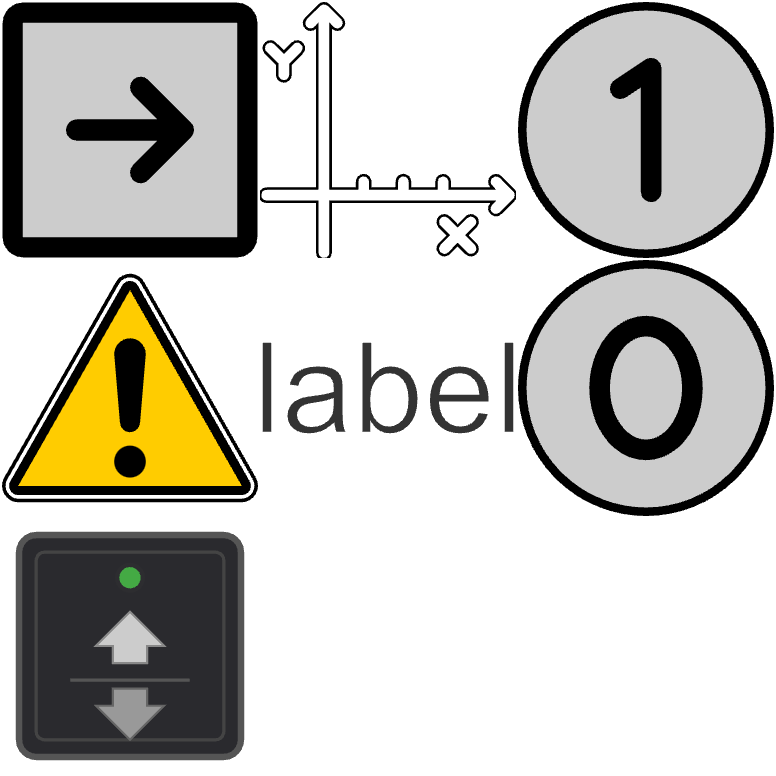
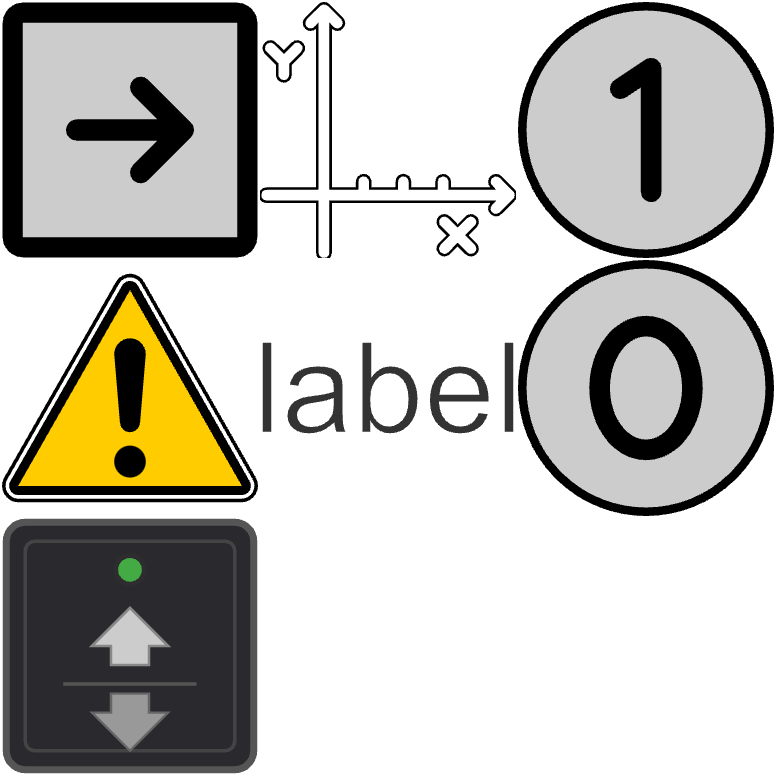
feat: live update decor via vite plugin

Changed region(s): [[0.0, 0.6495, 0.3402, 1.0]]

diff --git a/packages/ui/world/src/components/Decor.tsx b/packages/ui/world/src/components/Decor.tsx
@@ -8,6 +8,7 @@ import React, { useMemo } from "react";
 import { texture } from "three/src/nodes/accessors/TextureNode.js";
 import { uv } from "three/src/nodes/accessors/UV.js";
 import { attribute } from "three/src/nodes/core/AttributeNode.js";
+import { vec2 } from "three/tsl";
 import * as THREE from "three/webgpu";
 import type { DecorSheetEntry } from "../assets.schema";
 import { MAX_DECOR_QUAD_INSTANCES, sguToWorldScale } from "../const";
@@ -180,13 +181,15 @@ export default function Decor(_props: Props) {
       await updateDecor();
       w.setNextPending({ decor: false });
     })();
-  }, [w.mapKey, w.hash, state.images.length, w.pending.nav]);
+  }, [w.mapKey, w.hash, state.images, w.pending.nav]);
 
   const materials = useMemo(() => {
     const uvDims = attribute("uvDimensions", "vec2");
     const uvOffs = attribute("uvOffsets", "vec2");
     const uvTexIds = attribute("uvTextureIds", "float");
-    const transformedUv = uv().mul(uvDims).add(uvOffs);
+    // why do we need to flip here?
+    const flippedUv = vec2(uv().x, uv().y.oneMinus());
+    const transformedUv = flippedUv.mul(uvDims).add(uvOffs);
     const texNode = texture(w.texDecor.tex, transformedUv);
     texNode.depthNode = uvTexIds;
 

diff --git a/packages/ui/world/src/components/World.tsx b/packages/ui/world/src/components/World.tsx
@@ -1,4 +1,5 @@
 import type { StarShipGeomorphKey } from "@npc-cli/media/starship-symbol";
+import { devMessageFromServer } from "@npc-cli/ui__map-edit/map-node-api";
 import { UiContext } from "@npc-cli/ui-sdk/UiContext";
 import { Broadcaster, cn, type UseStateRef, useStateRef } from "@npc-cli/util";
 import { fetchParsed, getDevCacheBustQueryParam } from "@npc-cli/util/fetch-parsed";
@@ -152,6 +153,10 @@ export default function World({ meta }: { meta: WorldUiMeta }) {
           ["hot", assetsJsonChangedEvent, () => {
             debug("[World] assets.json changed: refetching");
             queryClientApi.queryClient.invalidateQueries({ exact: false, queryKey: state.worldQueryPrefix });
+          }],
+          ["hot", devMessageFromServer.decorSheetsRebuilt, () => {
+            debug("[World] decor sheets rebuilt: refetching");
+            queryClientApi.queryClient.invalidateQueries({  queryKey: [...state.worldQueryPrefix, "decor-sheet-images"] });
           }],
           ["window", "hmr:DerivedGmsData", (e: Event) => {
             debug("[World] HMR: DerivedGmsData updated: recomputing");

diff --git a/scripts/src/service/watch-decor-svgs.ts b/scripts/src/service/watch-decor-svgs.ts
@@ -1,6 +1,8 @@
+import { execSync } from "node:child_process";
 import fs from "node:fs";
 import path from "node:path";
 import { type DecorManifest, DecorManifestEntrySchema, DecorManifestSchema } from "@npc-cli/ui__map-edit/editor.schema";
+import { devMessageFromServer } from "@npc-cli/ui__map-edit/map-node-api";
 import { info, safeJsonCompact, warn } from "@npc-cli/util/legacy/generic";
 import { Parser } from "htmlparser2";
 import { Canvas, loadImage } from "skia-canvas";
@@ -23,7 +25,12 @@ export function watchDecorSvgs(server: ViteDevServer) {
   const rebuild = () => {
     if (debounceTimer) clearTimeout(debounceTimer);
     debounceTimer = setTimeout(() => {
-      rebuildDecor();
+      try {
+        execSync("pnpm exec gen-decor-sheets", { cwd: PROJECT_ROOT, stdio: "inherit" });
+        server.hot.send({ type: "custom", event: devMessageFromServer.decorSheetsRebuilt });
+      } catch (e) {
+        warn("[watch-decor] gen-decor-sheets failed:", e);
+      }
     }, 200);
   };
 

diff --git a/packages/ui/map-edit/src/map-node-api.ts b/packages/ui/map-edit/src/map-node-api.ts
@@ -103,6 +103,7 @@ export const defaultSymbolKey: StarshipSymbolImageKey = "stateroom--012--2x2";
 
 export const devMessageFromServer = {
   recomputedPathManifest: "map-edit:recompute-path-manifest",
+  decorSheetsRebuilt: "decor-sheets-rebuilt",
 } as const;
 
 //#endregion
